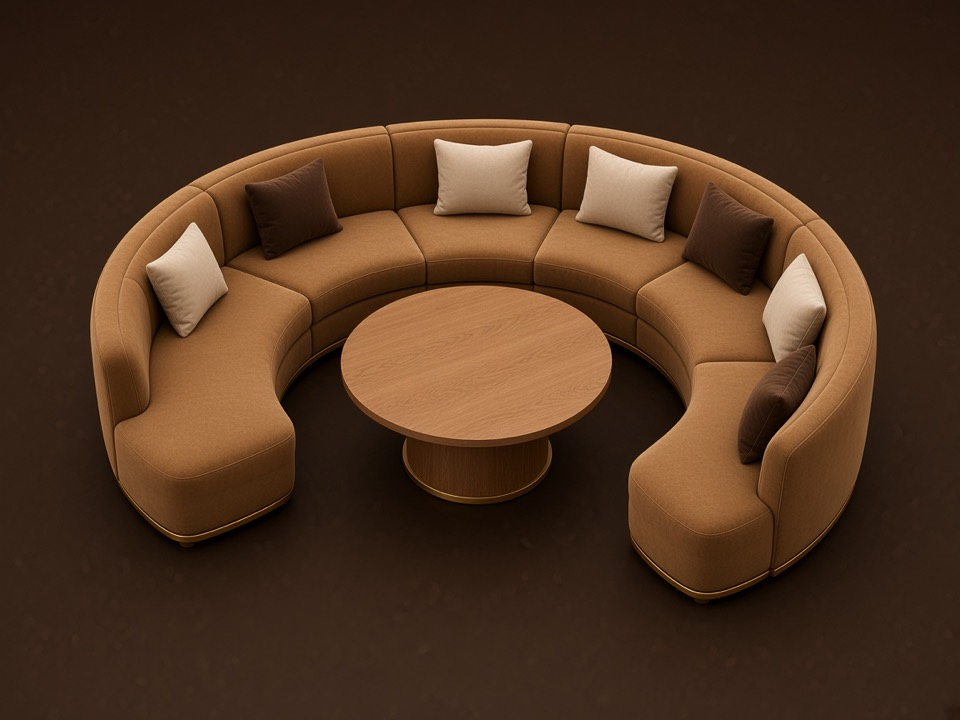
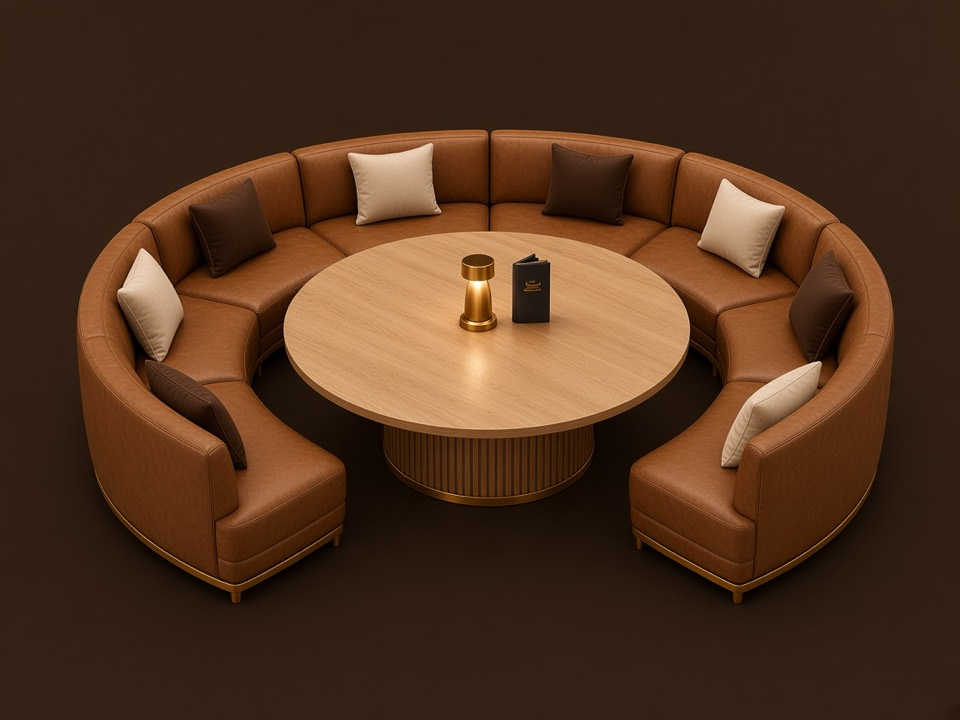
Group Chill on the Hill tables by design and show availability.
Each design such as Yard-T10 shows how many are taken and how many remain before it is opened, then lists every numbered table. Couch and high-table art now uses identical seats with a gap between them.

diff --git a/laravel-app/resources/views/beyond/coth/tables.blade.php b/laravel-app/resources/views/beyond/coth/tables.blade.php
@@ -28,7 +28,11 @@
     }
     .coth-card .coth-art img { position: relative; z-index: 0; }
     .coth-card .coth-pill { z-index: 2; }
-    a.coth-card:hover { border-color: rgba(197,160,89,.85); box-shadow: 0 22px 54px rgba(0,0,0,.6); transform: translateY(-2px); }
+    details.coth-card > summary { list-style: none; cursor: pointer; }
+    details.coth-card > summary::-webkit-details-marker { display: none; }
+    details.coth-card[open] { border-color: #E8C878; }
+    details.coth-card > summary:hover { filter: brightness(1.04); }
+    .coth-unit { border-top: 1px solid rgba(198,161,91,.22); }
     .coth-card.is-selected, a.coth-card:focus-visible {
         border-color: #E8C878; outline: none;
         box-shadow: 0 0 0 2px rgba(232,200,120,.85), 0 22px 54px rgba(0,0,0,.6);
@@ -112,70 +116,75 @@
                     </table>
                 </div>
             @else
+                @php
+                    $groups = [];
+                    foreach ($tables as $row) {
+                        $code = (string) $row['table']->code;
+                        $key = preg_match('/^(.*-T\d+)/i', $code, $match) ? strtoupper($match[1]) : strtoupper($section->code).'-T'.$row['table']->capacity;
+                        $groups[$key][] = $row;
+                    }
+                @endphp
                 <div class="grid grid-cols-1 sm:grid-cols-2 lg:grid-cols-3 gap-5 mt-5" id="coth-grid">
-                    @foreach ($tables as $row)
+                    @foreach ($groups as $groupKey => $rows)
                         @php
-                            $table = $row['table'];
-                            $m = $statusMeta($row['state']);
-                            $bookUrl = route('coth.book', ['date' => $date, 'table' => $table->code]);
+                            $sample = $rows[0]['table'];
+                            $chip = $chipFor($sample);
+                            $remaining = 0;
+                            $taken = 0;
+                            foreach ($rows as $row) {
+                                if ($row['available']) {
+                                    $remaining++;
+                                } elseif (in_array($row['state'], ['Booked', 'Held'], true)) {
+                                    $taken++;
+                                }
+                            }
+                            $parts = explode('-', $groupKey, 2);
+                            $groupLabel = ucfirst(strtolower($parts[0])).'-'.($parts[1] ?? '');
                         @endphp
-                        <{{ $row['available'] ? 'a' : 'div' }}
-                            class="coth-card {{ $row['available'] ? '' : 'coth-taken' }} rounded-3xl overflow-hidden flex flex-col"
-                            @if ($row['available'])
-                                href="{{ $bookUrl }}"
-                                role="button"
-                                data-coth-select
-                                data-code="{{ $table->code }}"
-                                data-section="{{ $section->name }}"
-                                data-capacity="{{ $table->capacity }}"
-                                data-couch="{{ $table->isCouch() ? '1' : '0' }}"
-                                data-price="{{ number_format($row['quote']['list_price']) }}"
-                                data-discount="{{ $row['quote']['discounted'] ? number_format($row['quote']['discount_amount']) : '' }}"
-                                data-final="{{ number_format($row['quote']['final_price']) }}"
-                                data-deposit="{{ number_format($row['quote']['deposit_due']) }}"
-                                data-balance="{{ number_format(max(0, $row['quote']['final_price'] - $row['quote']['deposit_due'])) }}"
-                                data-href="{{ $bookUrl }}"
-                            @else
-                                aria-disabled="true"
-                            @endif
-                        >
-                            <div class="coth-art relative px-4 pt-5 pb-3 flex items-center justify-center">
-                                <img src="{{ $artFor($table) }}" alt="{{ $table->capacity }} seat table" class="w-full max-w-[280px] h-40 object-contain" loading="lazy">
-                                <span class="coth-pill absolute bottom-3 left-1/2 -translate-x-1/2 text-[11px] font-semibold uppercase rounded-full px-4 py-1">
-                                    {{ $chipFor($table) === 'City View · High Table' ? 'City View · High Table' : $table->capacity.' Seats' }}
-                                </span>
-                            </div>
-                            <div class="p-4 flex-1 flex flex-col">
-                                <div class="flex items-center justify-between gap-2">
-                                    <span class="font-serif text-lg">{{ $table->code }}</span>
-                                    <span class="text-[12px] {{ $m['text'] }} inline-flex items-center gap-1 font-semibold">
-                                        <span class="coth-dot" style="background: {{ $m['color'] }}"></span>{{ $m['label'] }}
+                        <details class="coth-card rounded-3xl overflow-hidden">
+                            <summary class="block">
+                                <div class="coth-art relative px-4 pt-5 pb-3 flex items-center justify-center">
+                                    <img src="{{ $artFor($sample) }}" alt="{{ $groupLabel }} {{ $sample->capacity }} separate seats" class="w-full max-w-[300px] h-44 object-contain" loading="lazy">
+                                    <span class="coth-pill absolute bottom-3 left-1/2 -translate-x-1/2 text-[11px] font-semibold uppercase rounded-full px-4 py-1">
+                                        {{ $chip === 'City View · High Table' ? 'City View · High Table' : $sample->capacity.' Seats' }}
                                     </span>
                                 </div>
-                                <p class="text-xs text-white/60 mt-1 mb-3">
-                                    {{ $section->name }} · {{ $table->capacity }} seats
-                                    @php $chip = $chipFor($table); @endphp
-                                    @if ($chip)· <span class="text-brand-gold">{{ $chip }}</span>@endif
-                                </p>
-
-                                <div class="mt-auto space-y-0.5 text-sm">
-                                    @if ($row['quote']['discounted'])
-                                        <div class="flex justify-between text-white/55"><span>Price</span><span class="line-through">{{ number_format($row['quote']['list_price']) }}</span></div>
-                                        <div class="flex justify-between text-emerald-300"><span>Discount (20%)</span><span>−{{ number_format($row['quote']['discount_amount']) }}</span></div>
-                                        <div class="flex justify-between font-semibold"><span>Final price</span><span class="text-brand-gold">{{ number_format($row['quote']['final_price']) }} FCFA</span></div>
-                                    @else
-                                        <div class="flex justify-between font-semibold"><span>Price</span><span class="text-brand-gold">{{ number_format($row['quote']['final_price']) }} FCFA</span></div>
-                                    @endif
-                                    <div class="flex justify-between text-white/70"><span>Min. deposit</span><span>{{ number_format($row['quote']['deposit_due']) }} FCFA</span></div>
+                                <div class="px-4 pt-4 pb-5">
+                                    <div class="flex items-center justify-between gap-2">
+                                        <span class="font-serif text-2xl">{{ $groupLabel }}</span>
+                                        <span class="text-xs text-white/55">{{ count($rows) }} {{ count($rows) === 1 ? 'table' : 'tables' }}</span>
+                                    </div>
+                                    <p class="text-xs text-white/60 mt-1 mb-3">
+                                        {{ $section->name }} · {{ $sample->capacity }} seats
+                                        @if ($chip)· <span class="text-brand-gold">{{ $chip }}</span>@endif
+                                    </p>
+                                    <div class="flex items-center justify-between text-sm font-semibold">
+                                        <span class="text-red-300">{{ $taken }} taken</span>
+                                        <span class="text-emerald-300">{{ $remaining }} remaining</span>
+                                    </div>
+                                    <span class="mt-4 block text-center border border-brand-gold/50 text-brand-gold uppercase tracking-[0.12em] text-xs rounded-full px-5 py-2.5">See each table</span>
                                 </div>
-
-                                @if ($row['available'])
-                                    <span class="mt-4 inline-block text-center bg-brand-gold text-[#24160F] font-bold uppercase tracking-[0.12em] text-xs rounded-full px-5 py-2.5">Reserve</span>
-                                @else
-                                    <span class="mt-4 inline-block text-center border border-white/15 text-white/50 uppercase tracking-[0.12em] text-xs rounded-full px-5 py-2.5">{{ $m['label'] }}</span>
-                                @endif
+                            </summary>
+                            <div class="px-4 pb-4">
+                                <p class="text-sm text-white/80 mb-2">{{ $remaining }} available · {{ $taken }} taken</p>
+                                @foreach ($rows as $row)
+                                    @php
+                                        $table = $row['table'];
+                                        $m = $statusMeta($row['state']);
+                                    @endphp
+                                    <div class="coth-unit py-3 flex items-center gap-3">
+                                        <img src="{{ $artFor($table) }}" alt="" class="w-16 h-12 object-contain rounded-md bg-[#24160F]">
+                                        <div class="min-w-0 flex-1">
+                                            <div class="font-semibold">{{ $table->code }}</div>
+                                            <div class="text-xs {{ $m['text'] }}"><span class="coth-dot align-middle mr-1" style="background: {{ $m['color'] }}"></span>{{ $m['label'] }}</div>
+                                        </div>
+                                        @if ($row['available'])
+                                            <a class="shrink-0 bg-brand-gold text-[#24160F] font-bold uppercase tracking-[0.1em] text-[11px] rounded-full px-3 py-2" href="{{ route('coth.book', ['date' => $date, 'table' => $table->code]) }}">Reserve</a>
+                                        @endif
+                                    </div>
+                                @endforeach
                             </div>
-                        </{{ $row['available'] ? 'a' : 'div' }}>
+                        </details>
                     @endforeach
                 </div>
             @endif
